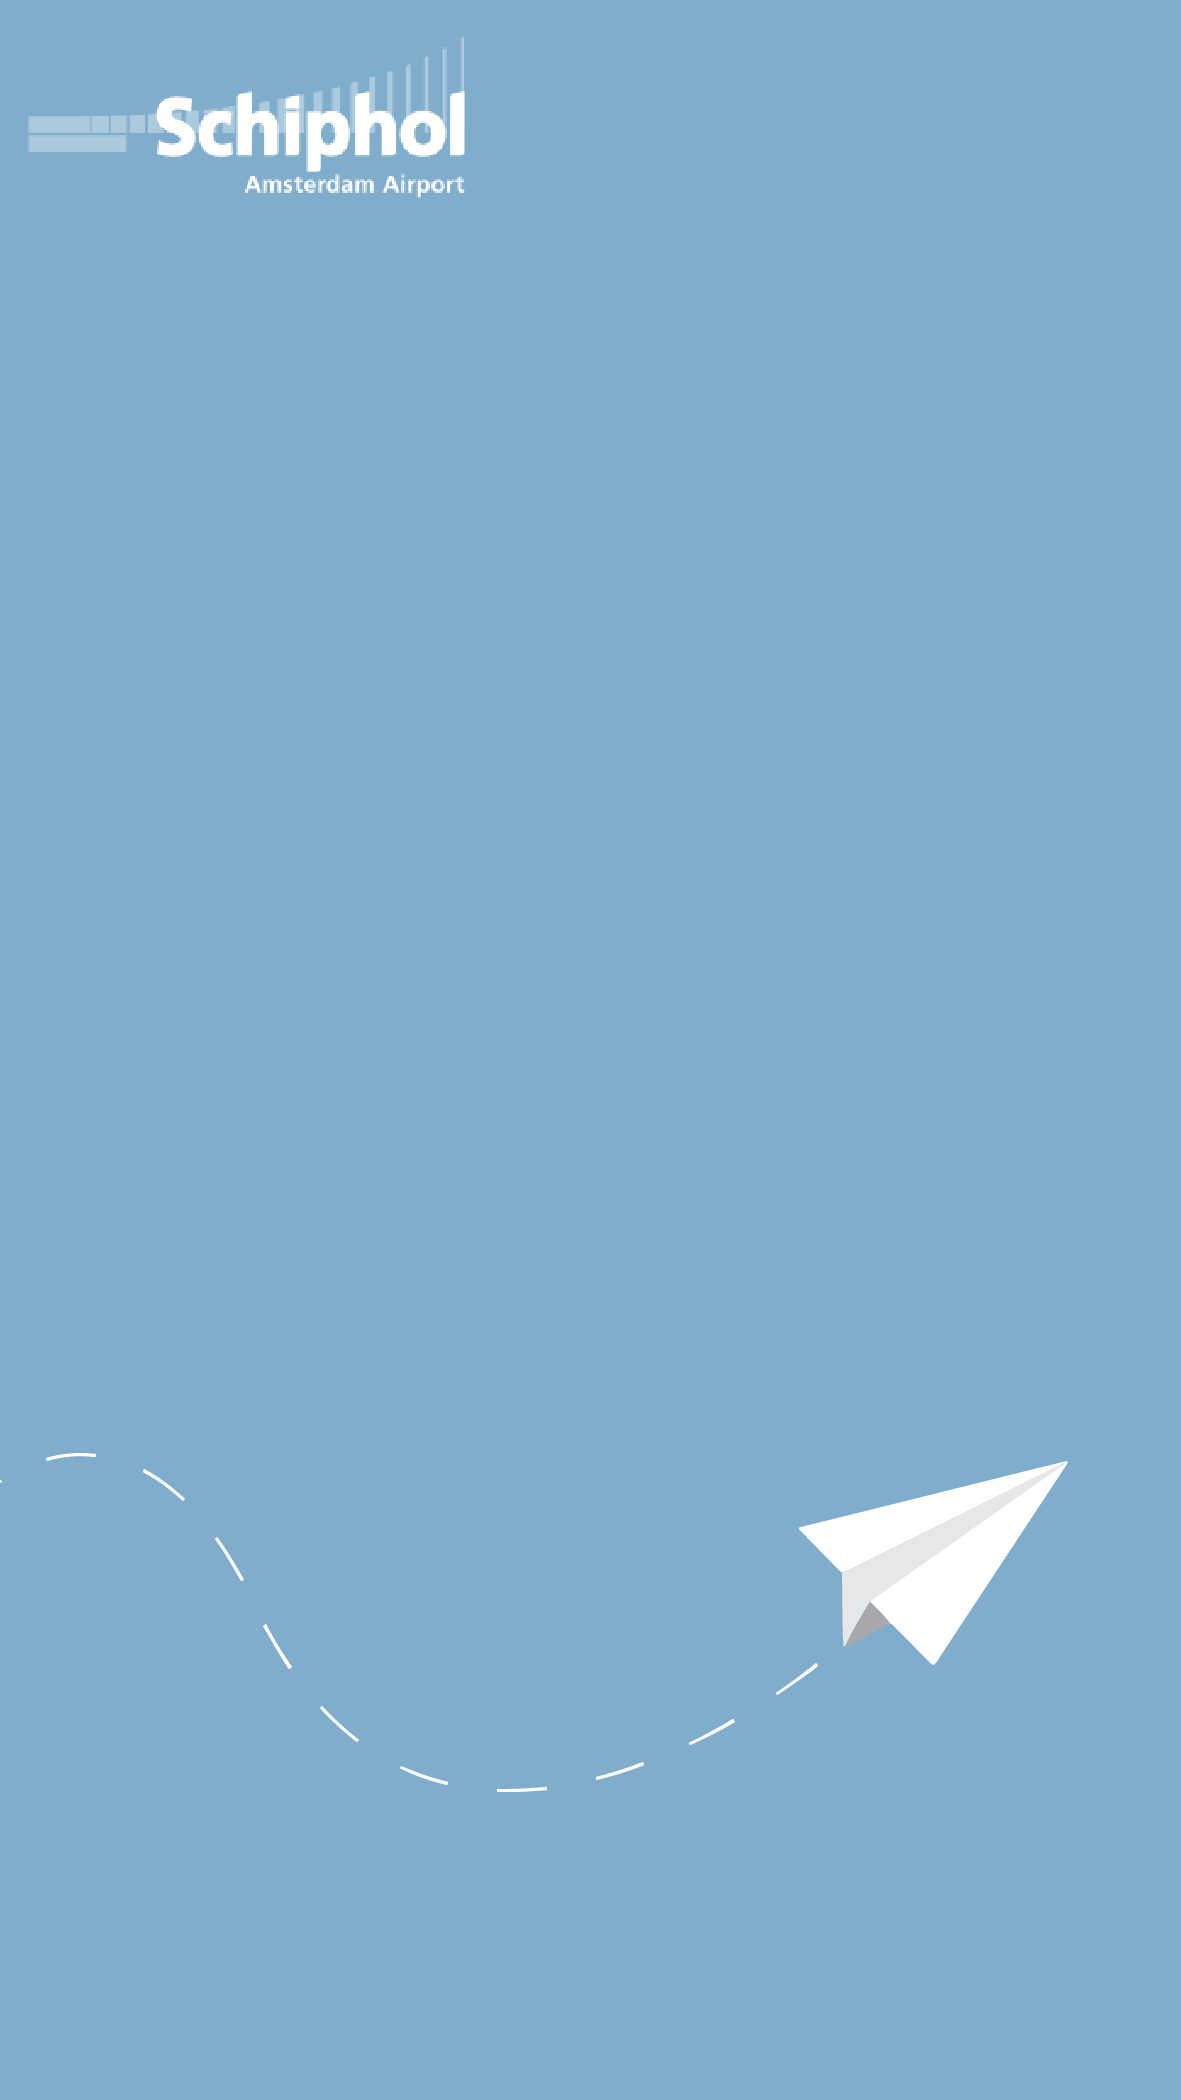
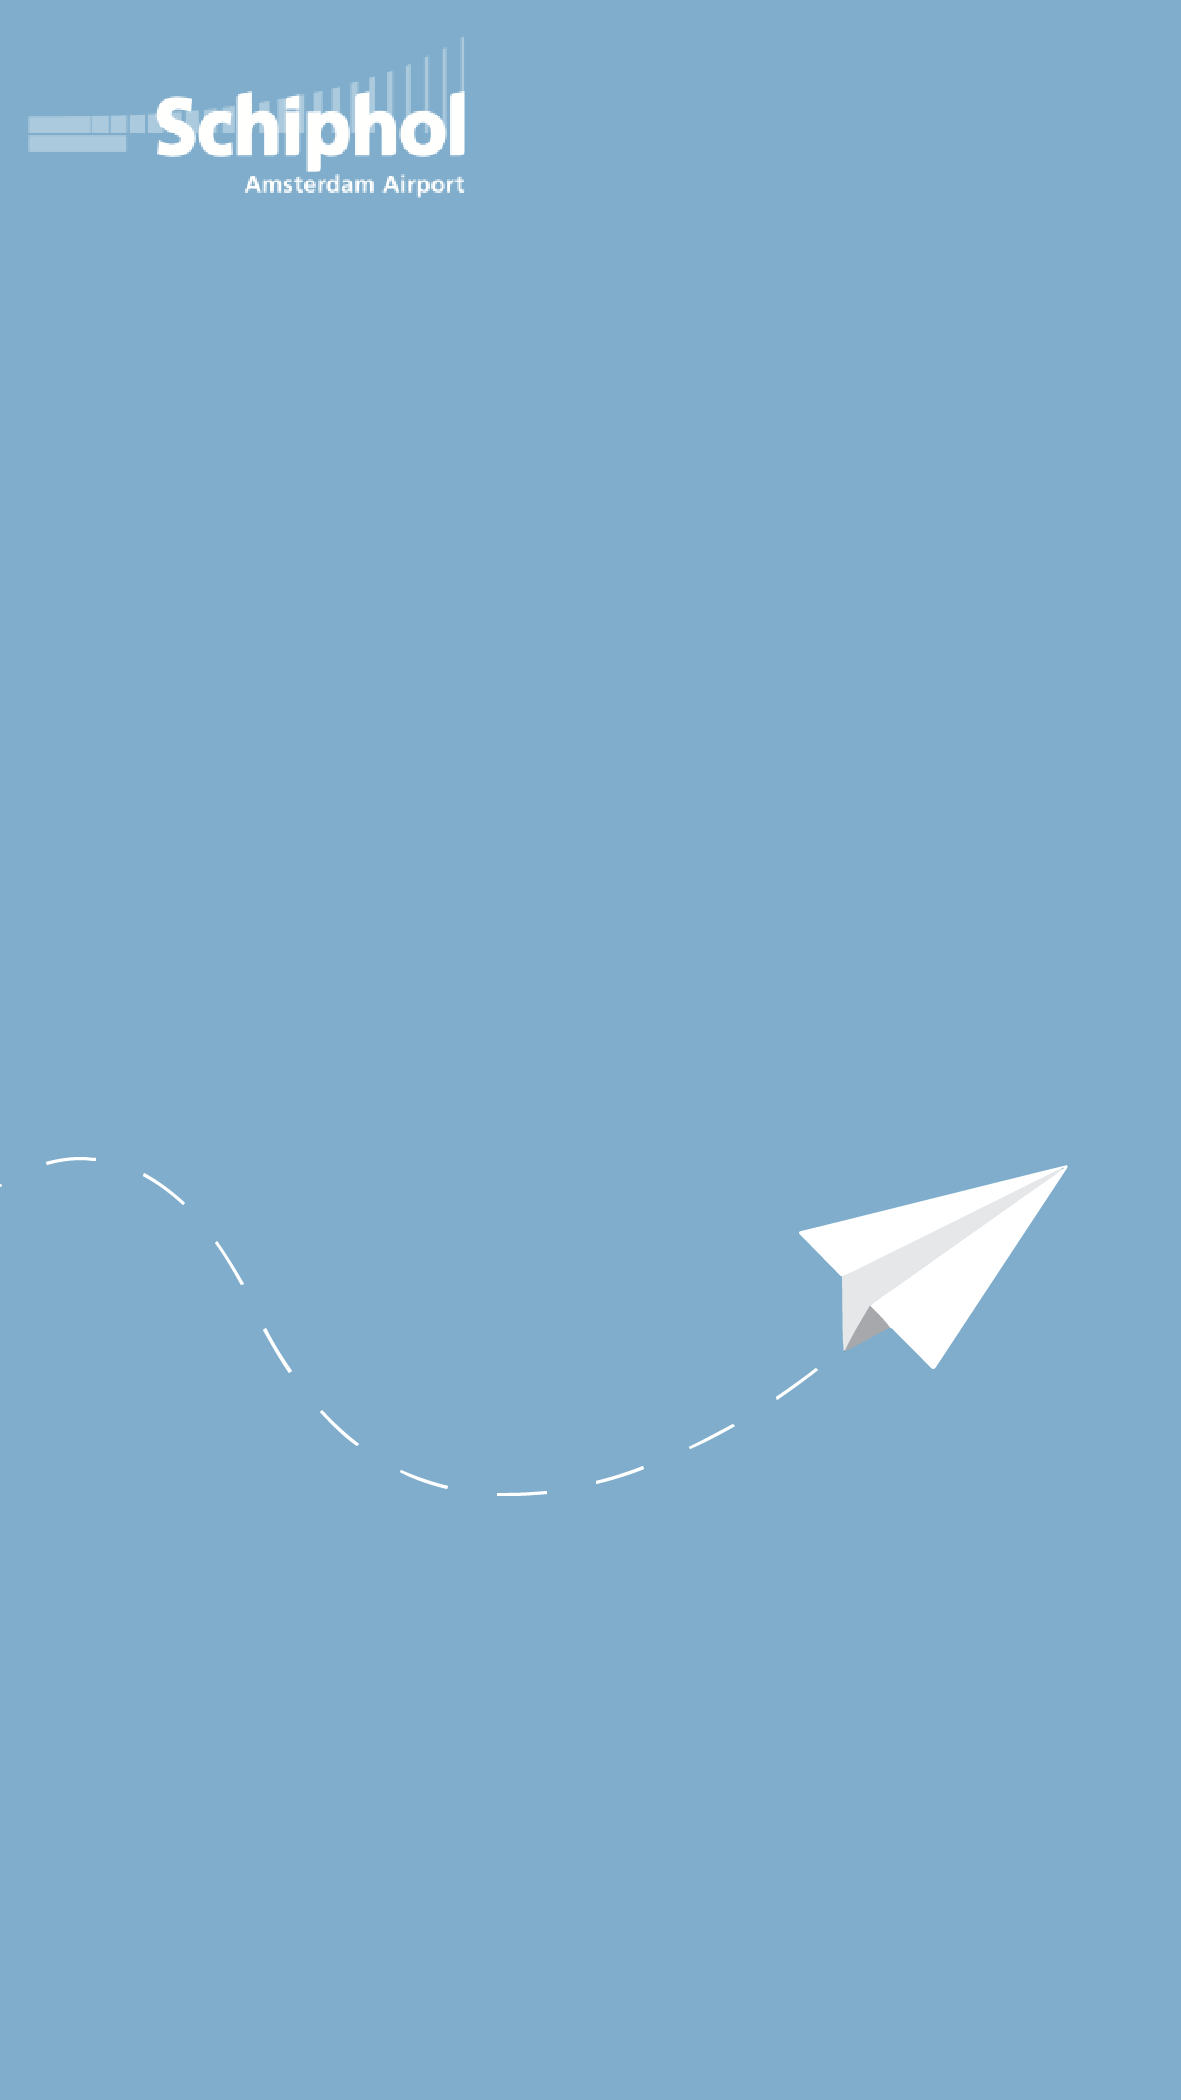
add file

Changed region(s): [[0.6706, 0.681, 0.9145, 0.8048], [0.6706, 0.5571, 0.9145, 0.65]]

diff --git a/timeflies/voucher.html b/timeflies/voucher.html
@@ -1,0 +1,13 @@
+<!DOCTYPE html>
+<html lang="en">
+<head>
+  <meta charset="UTF-8">
+  <meta http-equiv="X-UA-Compatible" content="IE=edge,chrome=1"> <!-- IE対策 -->
+  <meta name="viewport" content="width=device-width, minimum-scale=1, maximum-scale=1"> <!-- スマホ画面対策 -->
+  <title>Leave Your Worries Behind</title>
+  <link rel="stylesheet" href="./css/voucher.css">
+</head>
+<body>
+
+</body>
+</html>

diff --git a/timeflies/css/voucher.css b/timeflies/css/voucher.css
@@ -1,0 +1,13 @@
+@charset "UTF-8";
+/* CSS Document */
+
+
+body {
+  /*background-color: rgba(0,92,151,0.75);*/
+  margin: 0;
+  padding: 0;
+  background-image: url(../images/voucher.png);
+  background-size: cover;
+  width: 100%;
+  height: 100%;
+}
